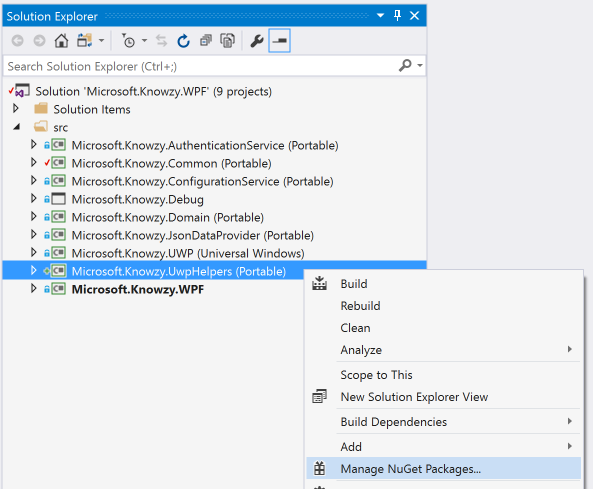
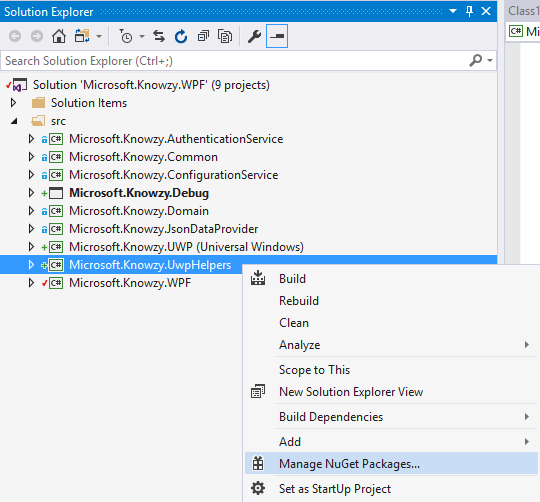
update images to remove PCL

Changed region(s): [[0.0, 0.0, 1.0, 1.0], [0.8593, 0.092, 0.8889, 0.1534]]

diff --git a/stories/2/213_AddUwp.md b/stories/2/213_AddUwp.md
@@ -104,19 +104,17 @@ We are going to need to add at least 2 UWP methods to our DeskTop Bridge version
 
 We can add UWP APIs to our Knowzy app at any location we need the UWP code. However, it will be easier if we create a set of UWP helper classes and place then all in a single C# library. 
 
-Since all of the other dependencies in the Knowzy WPF solution are Portable Class Libraries, we will add a new Portable Class Library called Microsoft.Knowzy.UwpHelpers.
+Since all of the other dependencies in the Knowzy WPF solution are Windows Classic Desktop C# Class Libraries, we will add a new C# Class library called Microsoft.Knowzy.UwpHelpers.
 
 * Right-click on the src folder in the solution and select **Add | New Project...**
 
-* Select the **Visual C# | Class Library (Portable)** project template.
+* Select the **Visual C# | Windows Classic Desktop | Class Library** project template.
 
 * Name the library Microsoft.Knowzy.UwpHelpers. Make sure you are saving the project to the **src** directory.
 
-![Create Portable Class Library](images/213-create-pcl.png)
+![Create C# Class Library](images/213-create-lib.png)
 
-* Select the following Targets and click **OK**:
 
-![Create Portable Class Library 2](images/213-create-pcl-2.png)
 
 There exists a convenient NuGet package called [UwpDesktop](https://www.nuget.org/packages/UwpDesktop) that makes it easy for you call into UWP APIs 
 from Desktop and Centennial apps (WPF, WinForms, etc.) Let's add this NuGet package to our Microsoft.Knowzy.UwpHelpers project.
@@ -168,19 +166,10 @@ namespace Microsoft.Knowzy.UwpHelpers
 
         internal static bool isWindows7OrLower()
         {
-            try
-            {
-                string deviceFamilyVersion = AnalyticsInfo.VersionInfo.DeviceFamilyVersion;
-                ulong version = ulong.Parse(deviceFamilyVersion);
-                ulong major = (version & 0xFFFF000000000000L) >> 48;
-                ulong minor = (version & 0x0000FFFF00000000L) >> 32;
-                double osVersion = (double)major + ((double)minor / 10.0);
-                return osVersion <= 6.1;
-            }
-            catch
-            {
-                return false;
-            }
+            int versionMajor = Environment.OSVersion.Version.Major;
+            int versionMinor = Environment.OSVersion.Version.Minor;
+            double version = versionMajor + (double)versionMinor / 10;
+            return version <= 6.1;
         }
     }
 }

diff --git a/stories/2/212_Debugging.md b/stories/2/212_Debugging.md
@@ -59,7 +59,12 @@ Since we will be working a lot with the Microsoft.Knowzy.UWP project, set the Bu
 
 ![Debug | x86 Projects](images/212-debug-x86.png)
 
-Build the x86 configuration of the solution. After the build completes, deploy the Microsoft.Knowzy.UWP project so its AppX folder is created. The next step needs the AppX folder.
+Clean the solution by selecting **Clean Solution** from the **Build** menu.
+
+Build the x86 configuration of the solution. (Select **Build Solution** from the **Build** menu).
+
+After the build completes, deploy the Microsoft.Knowzy.UWP project so its AppX folder is created. The next step needs the AppX folder.
+(Select **Deploy Solution** from the **Build** menu).
 
 Right-click on the Microsoft.Knowzy.Debug project and select **Set as Startup Project**. 
 

diff --git a/stories/2/211_Centennial.md b/stories/2/211_Centennial.md
@@ -28,6 +28,8 @@ Set the Microsoft.Knowzy.WPF project as the startup project. Press F5 to build a
 
 #### Step 2: Add a UWP Project
 
+We will be using an empty UWP Visual Studio Project to package our WPF app into a UWP app.
+
 To create a Desktop Bridge package, first add a C# Windows Universal Blank App project to the your solution.
 
 * Right-click on the **src** folder in the Solution and select **Add | New Project...**
